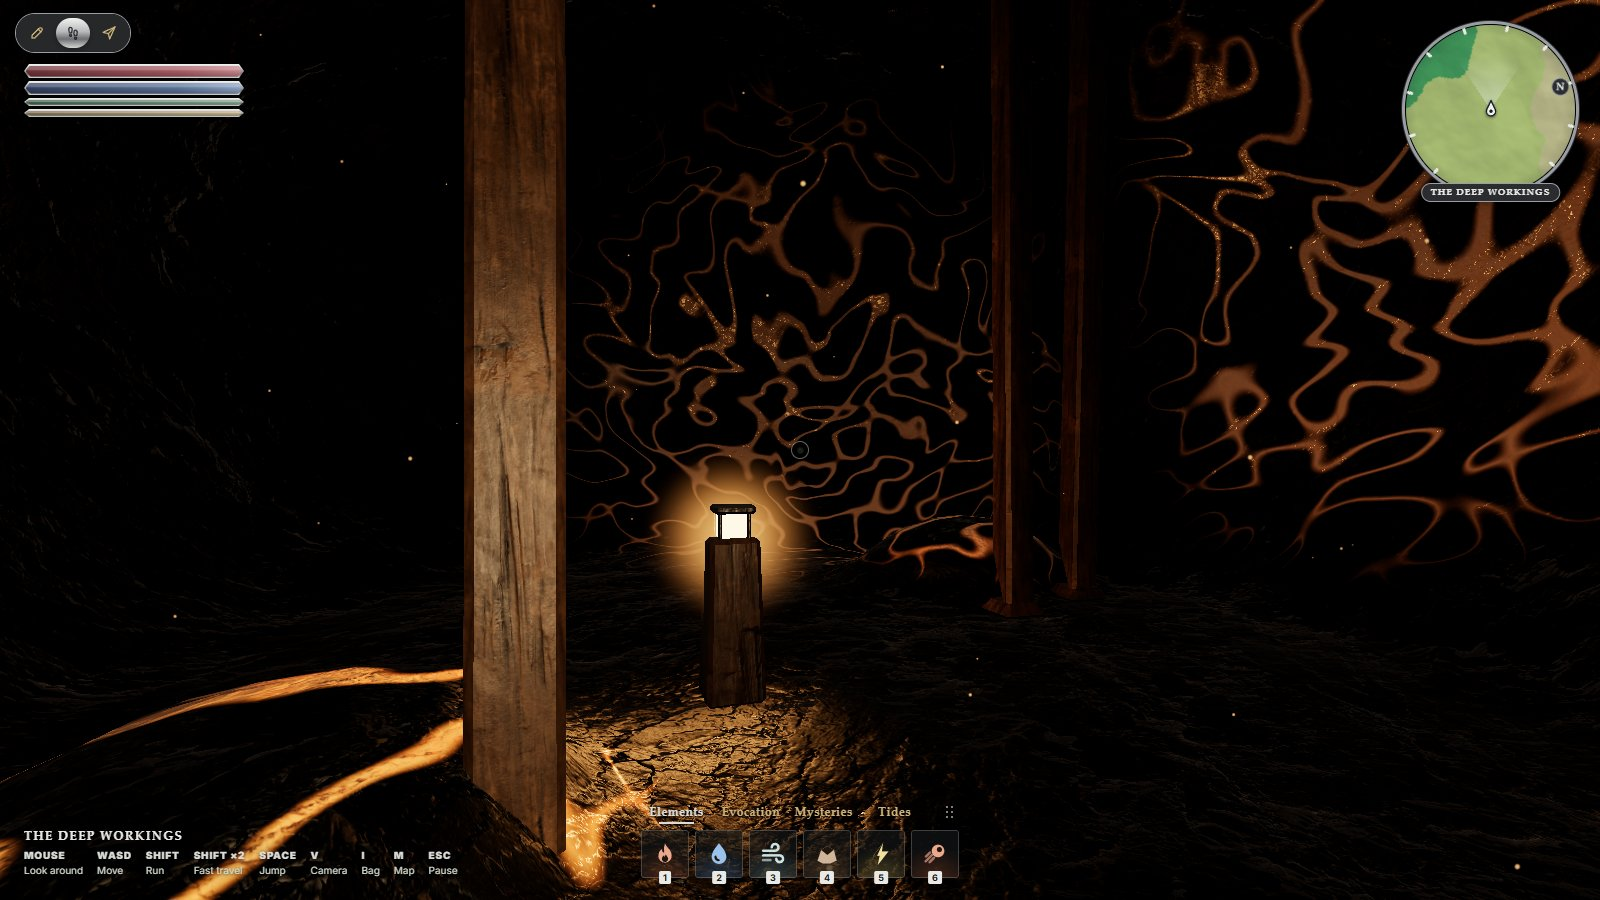
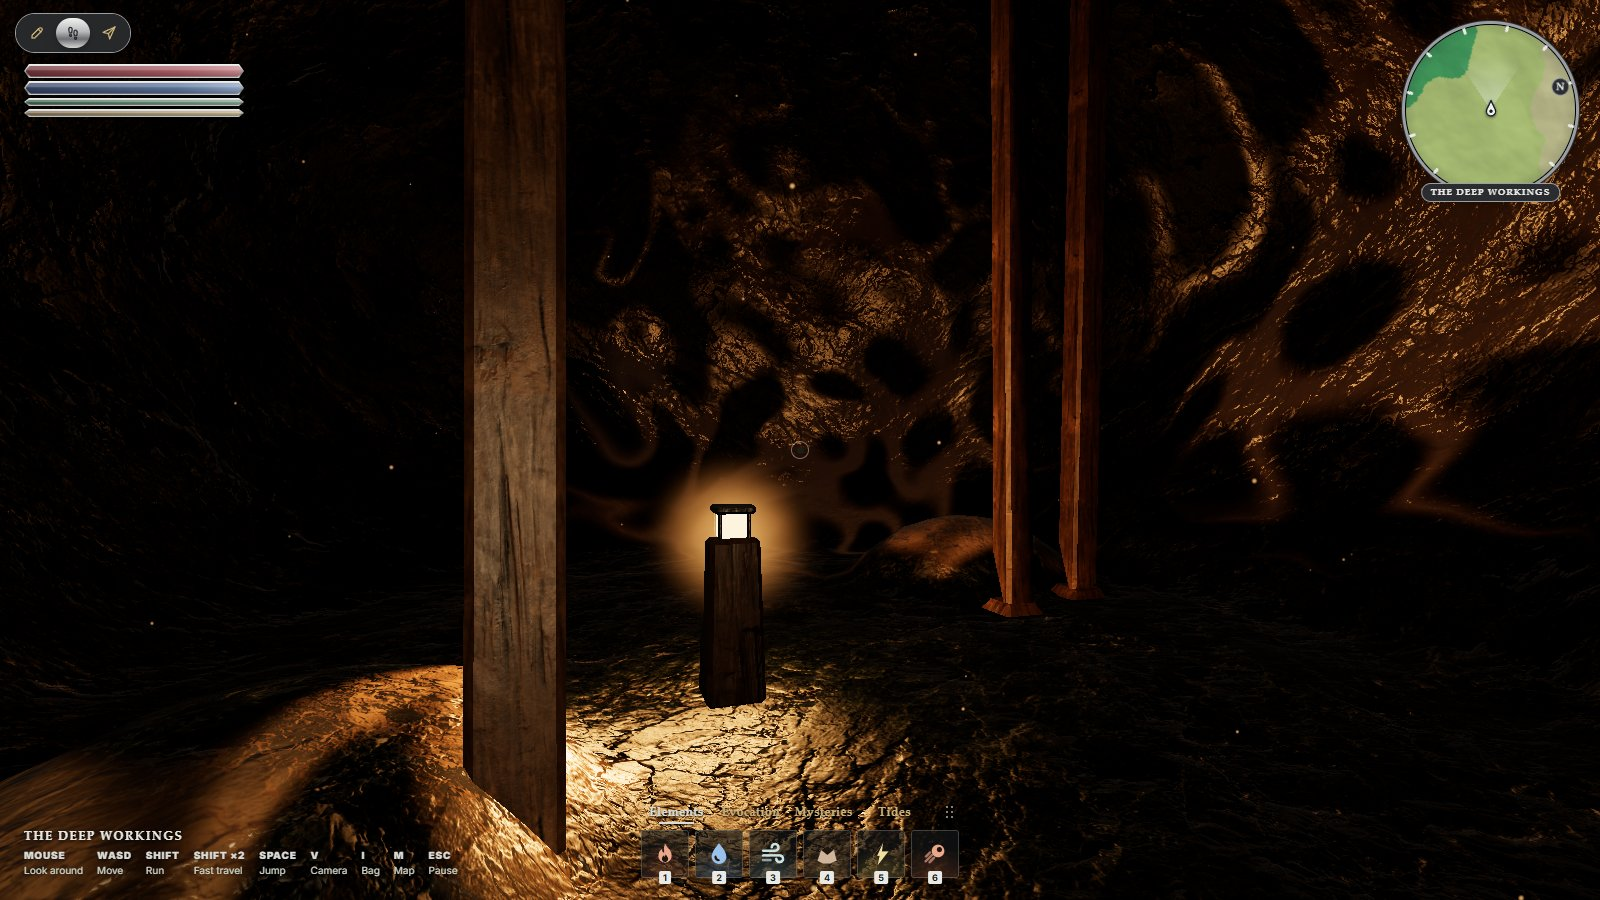
Instanced locations: lamp gain per lighting profile; mine and Drow city lighting pass
Baked lamps were too weak against the ambient in the mine and the cavern city.
A lighting profile can now scale every baked light (bakeGain). The mine's rock
is lighter and its ore reads as dull metallic seams instead of glowing lines;
the flooded level has a lamp on its far side. The Drow city gets neutral fill,
warm lamps where people trade and live, and crystals that keep their colour.

diff --git a/src/editor/locations/generators/CavernCityGenerator.js b/src/editor/locations/generators/CavernCityGenerator.js
@@ -1,7 +1,7 @@
 import { beam, block, box, rod } from '../gen/propKit.js';
 import { fbm3 } from '../gen/noise.js';
 import { chamber, column, plateau, slab } from '../gen/shapes.js';
-import { bridge, crystal, house } from './kits.js';
+import { bridge, crystal, house, lantern } from './kits.js';
 
 /**
  * An Umbra'kor cavern city. The cavern comes first — a void far larger than
@@ -22,7 +22,7 @@ export function generate(b, params) {
   const gate = P(0, 16, 7), ledge = P(0, 16, -23);
   const market = P(0, 8, -72);
   const west = P(-41, 14, -72), east = P(41, 2, -78), beds = P(0, -6, -113);
-  const lamp = (at, size = 1, power = 2.2) => crystal(b, at, size, { tint: crystalTint, intensity: power * 1.6, range: 16 * size, gain: 1.1 });
+  const lamp = (at, size = 1, power = 2.2) => crystal(b, at, size, { tint: crystalTint, intensity: power * 1.6, range: 16 * size, gain: 0.5 });
 
   // The void.
   b.grid.carve(chamber(P(0, 20, -72), { rx: 57, ry: 41, rz: 55, floorY: LAKE }));
@@ -87,7 +87,7 @@ export function generate(b, params) {
   // --- Water and the light that shows the void ------------------------------
   b.prop('water', box(140, 0.05, 140, P(0, LAKE + 2.6, -72)));
   for (const [x, y, z, power] of [[32, LAKE + 6, -40, 1.6], [-36, LAKE + 6, -102, 1.6], [0, 46, -40, 1.5], [-30, 40, -80, 1.3], [34, 40, -92, 1.3], [0, 30, -110, 1.2], [-44, 20, -40, 1], [44, 14, -100, 1]]) {
-    b.light(P(x, y, z), '#5b82c4', power, 80, { flat: true });
+    b.light(P(x, y, z), '#8496b8', power, 80, { flat: true });
   }
 
   // --- Gate ledge -------------------------------------------------------------
@@ -125,11 +125,17 @@ export function generate(b, params) {
     const angle = index / 6 * Math.PI * 2;
     lamp(P(market.x + Math.cos(angle) * 8.6, market.y, market.z + Math.sin(angle) * 8.6), 0.9, 2);
   }
+  // Warm lamps where people trade and live: the only fire-coloured light in the city.
+  for (const [x, y, z] of [[-6, 8, -62], [7, 8, -80], [-9, 8, -79], [10, 8, -66], [-36, 14, -58], [-36, 14, -84], [37, 2, -70]]) {
+    b.prop('iron', rod(P(x, y, z), P(x, y + 2.6, z), 0.05, 0.04, 6), 0x23262d);
+    lantern(b, P(x, y + 2.8, z), { tint: windowTint, intensity: 5, range: 14, halo: 1.4 });
+    b.nav.block(P(x, y, z), 0.35, 3);
+  }
   // The Spindle's lamp: a hanging mass of crystal over the market.
   for (let index = 0; index < 9; index += 1) {
     const angle = index / 9 * Math.PI * 2;
     b.prop('glow', rod(P(spindleTip.x + Math.cos(angle) * 1.2, spindleTip.y + 2.5, spindleTip.z + Math.sin(angle) * 1.2),
-      P(spindleTip.x + Math.cos(angle) * b.range(0.3, 2.4), spindleTip.y - b.range(1.5, 5), spindleTip.z + Math.sin(angle) * b.range(0.3, 2.4)), 0.5, 0.03, 5), crystalTint, 1.3);
+      P(spindleTip.x + Math.cos(angle) * b.range(0.3, 2.4), spindleTip.y - b.range(1.5, 5), spindleTip.z + Math.sin(angle) * b.range(0.3, 2.4)), 0.5, 0.03, 5), crystalTint, 0.6);
   }
   b.light(P(spindleTip.x, spindleTip.y - 3, spindleTip.z), crystalTint, 70, 70, { radius: 4, halo: 7 });
 

diff --git a/src/editor/locations/LocationBuilder.js b/src/editor/locations/LocationBuilder.js
@@ -150,9 +150,10 @@ export class LocationBuilder {
    * @param {object} options
    * @param {Record<string, { material: Material, ice?: number }>} options.materials `terrain` plus one per prop key
    * @param {{ rock: number[], ice: number[] }} options.absorption
+   * @param {number} [options.bakeGain] scales every baked light: the lighting profile's overall lamp strength
    * @returns {THREE.Group}
    */
-  build({ materials, absorption }) {
+  build({ materials, absorption, bakeGain = 1 }) {
     const group = new THREE.Group();
     const surface = extractSurface(this.grid);
     const count = surface.positions.length / 3;
@@ -170,6 +171,7 @@ export class LocationBuilder {
       grid: this.grid, positions: surface.positions, normals: surface.normals, lights: this.lights,
       iceAt: (v) => ice[v], absorption,
     });
+    for (let i = 0; i < baked.light.length; i += 1) baked.light[i] *= bakeGain;
     smoothAttribute(surface.indices, baked.light, 3, 1);
     smoothAttribute(surface.indices, baked.shade, 2, 2);
     const chunks = splitByColumns({
@@ -200,6 +202,7 @@ export class LocationBuilder {
         grid: this.grid, positions: geometry.attributes.position.array, normals: geometry.attributes.normal.array,
         lights: this.lights, iceAt: () => entry.ice ?? 0, absorption,
       });
+      for (let i = 0; i < lit.light.length; i += 1) lit.light[i] *= bakeGain;
       geometry.setAttribute('bakeLight', new THREE.BufferAttribute(lit.light, 3));
       geometry.setAttribute('bakeDir', new THREE.BufferAttribute(lit.dir, 3));
       geometry.setAttribute('bakeShade', new THREE.BufferAttribute(lit.shade, 2));

diff --git a/src/editor/locations/LocationScene.js b/src/editor/locations/LocationScene.js
@@ -37,7 +37,7 @@ export class LocationScene {
       if (builder.exits.length === 0) throw new Error(`Location "${site.id}" generated no exit.`);
 
       await progress('bake-lighting');
-      location.scene.add(builder.build({ materials, absorption: site.lighting.absorption }));
+      location.scene.add(builder.build({ materials, absorption: site.lighting.absorption, bakeGain: site.lighting.bakeGain ?? 1 }));
       if (builder.halos.length > 0) location.scene.add(createHalos(builder.halos));
       if (builder.flames.length > 0) location.scene.add(createFlames(builder.flames));
       for (const shaft of builder.shafts) location.scene.add(createLightShaft(shaft));

diff --git a/src/editor/locations/generators/MineGenerator.js b/src/editor/locations/generators/MineGenerator.js
@@ -206,6 +206,8 @@ export function generate(b, params) {
   b.prop('timber', stoneBlock(0.34, 1.5, 0.34, P(-1.2, -9, -81), { bevel: 0.03, batter: 0.08, irregular: 0.25 }), 0x5a442f);
   b.prop('timber', hewnBeam(P(-3, waterY + 0.1, -84), P(-3.6, waterY + 0.4, -88), 0.3, 0.3, { irregular: 0.3 }), 0x4a3828);
 
+  // A lamp left burning on the far side shows how far the water goes.
+  lantern(b, P(4.5, -7.6, -90), { intensity: 3.5, range: 15, halo: 1.2 });
   b.spawn('entry', P(0, 0, 3.5), 0);
   b.exit('adit', P(0, 0, 5.6), { label: 'Leave the workings' });
 }
